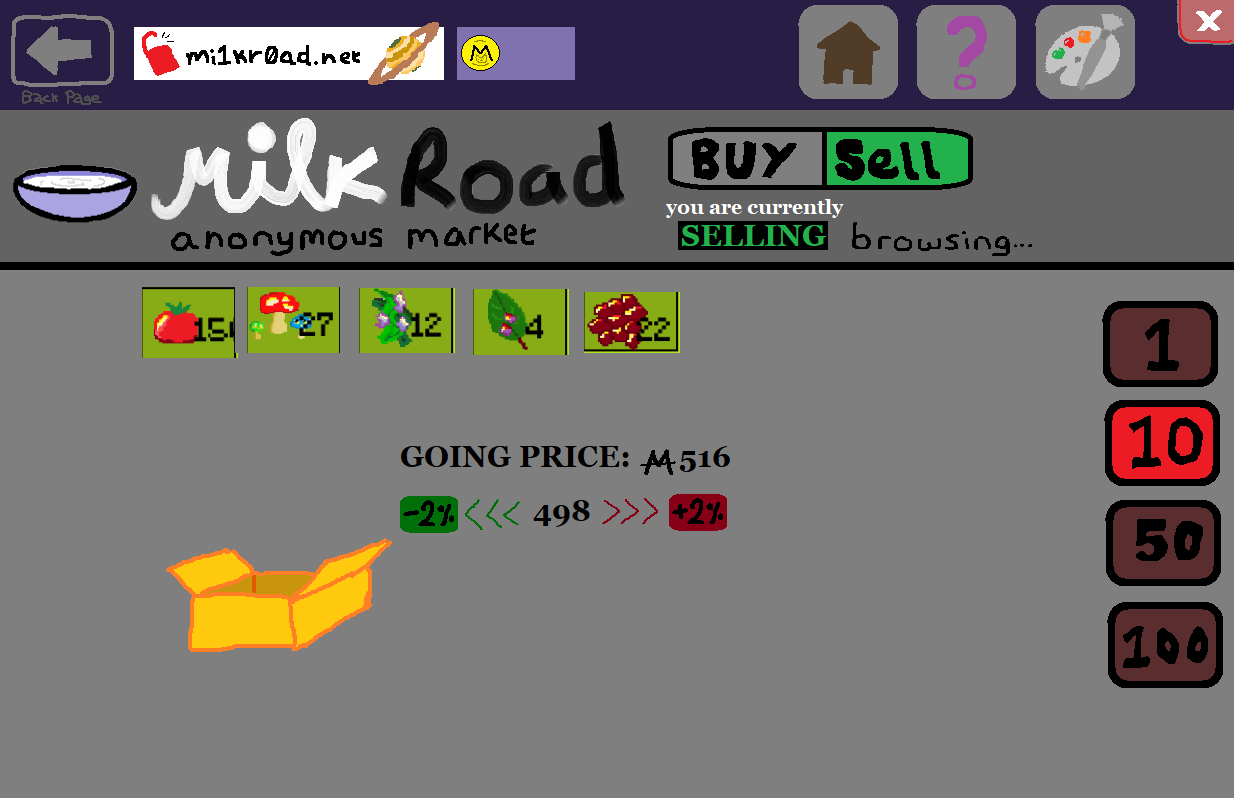
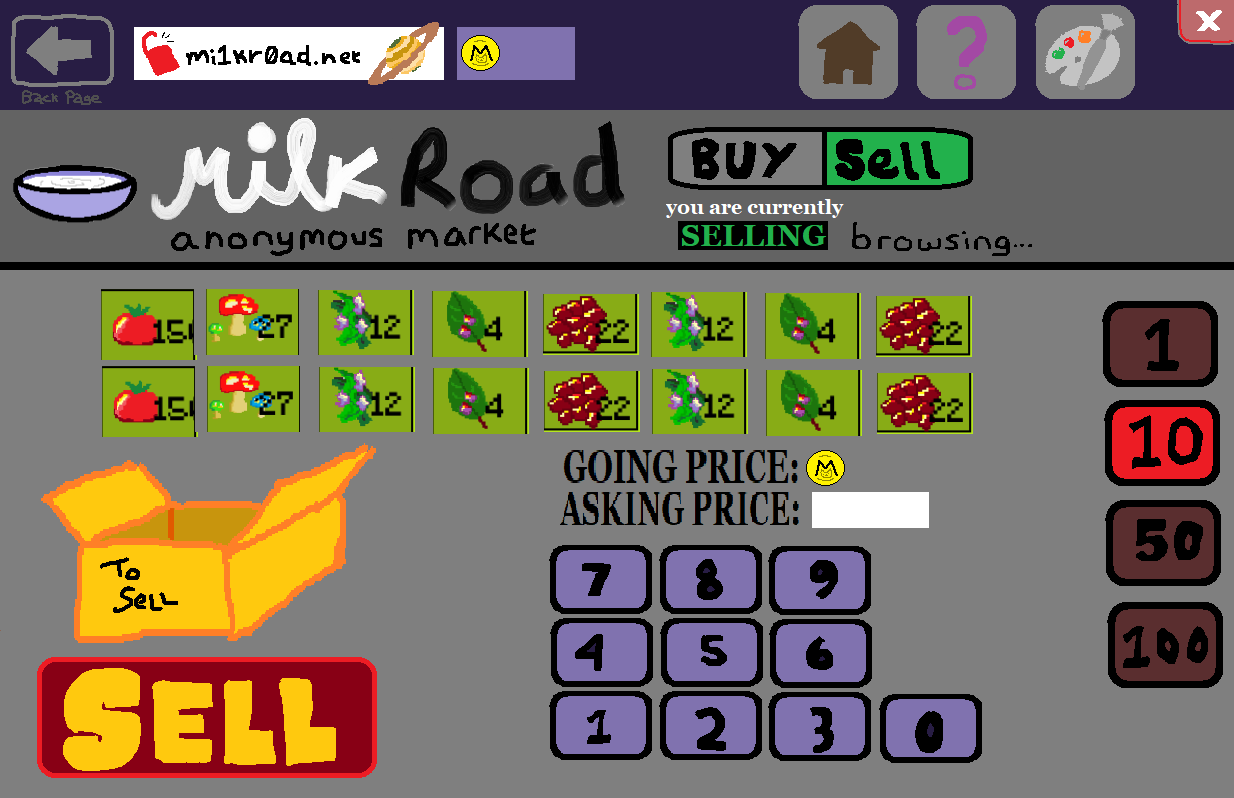
added sell logic to milkroad

Changed region(s): [[0.0308, 0.3609, 0.8006, 0.9925]]

diff --git a/site/catnip/content/screens.js b/site/catnip/content/screens.js
@@ -1,5 +1,8 @@
 
 
+function screensSetup() {
+    milkroadSetup();
+}
 
 function handleScreensLogic(click) {
     screenMilkroadLogic(click);
@@ -20,66 +23,108 @@ function isMilkroadPage(screenName) {
 }
 
 
-let milkroadBuyItems = [
+const milkroadBuyItems = [
     "citridora",
     "mushroom",
     "coffee",
 ]
 
-let milkroadBuyItemPrices = {
+const milkroadBuyItemPrices = {
     "citridora": 200,
     "mushroom": 70,
     "coffee": 25
 }
 
-let milkroadBuyItemPackSizes = {
+const milkroadBuyItemPackSizes = {
     "citridora": 30,
     "mushroom": 70,
     "coffee": 21,
 }
 
+const milkroadSellItemPrices = {
+    tomato: 1,
+    mushroom: 10,
+    citridora: 15,
+    catmint: 5,
+    coffee: 2
+}
+
 let milkroadCart = {}
+
+let milkroadSellItems = []
+let milkroadSellBox = {}
+
+function getMilkroadPagetype(name) {
+    return name.slice(4).replace(/[0-9]/g, '');
+}
 
 
 function screenMilkroadLogic(click) {
     if (!isMilkroadPage(Screen.currentScreen.name)) {
         return;
     }
+    let pageType = getMilkroadPagetype(Screen.currentScreen.name);
 
-    milkroadBuyBoxData.forEach((box, i) => {
-        if (BoundingBox.contains(box, click)) {
-            let boughtItem = milkroadBuyItems[i];
-            let price = milkroadBuyItemPrices[boughtItem];
-            if (milkroadGetCartPrice(milkroadCart)+price > player.money) {
-                return;
+    if (pageType == "buy") {
+        milkroadBuyBoxData.forEach((box, i) => {
+            if (BoundingBox.contains(box, click)) {
+                let boughtItem = milkroadBuyItems[i];
+                let price = milkroadBuyItemPrices[boughtItem];
+                if (milkroadGetCartPrice(milkroadCart)+price > player.money) {
+                    return;
+                }
+                if (!milkroadCart[boughtItem]>0) {
+                    milkroadCart[boughtItem] = 1;
+                } else {
+                    milkroadCart[boughtItem]++;
+                }
             }
-            console.log(`buying ${boughtItem}`)
-            if (!milkroadCart[boughtItem]>0) {
-                milkroadCart[boughtItem] = 1;
-            } else {
-                milkroadCart[boughtItem]++;
-            }
-        }
-    })
+        })
 
-
-    if (BoundingBox.contains(milkroadClearButton, click)) {
-        milkroadCart = {};
-    }
-
-    if (BoundingBox.contains(milkroadBuyButton, click)) {
-        if (milkroadGetCartPrice(milkroadCart) <= player.money) {
-            player.money -= milkroadGetCartPrice(milkroadCart);
-            Object.keys(milkroadCart).forEach((item) => {
-                let id = Seed.fromName(item).id;
-                player.plants[id] += milkroadCart[item]*milkroadBuyItemPackSizes[item];
-            })
+        if (BoundingBox.contains(milkroadClearButton, click)) {
             milkroadCart = {};
         }
+
+        if (BoundingBox.contains(milkroadBuyButton, click)) {
+            if (milkroadGetCartPrice(milkroadCart) <= player.money) {
+                player.money -= milkroadGetCartPrice(milkroadCart);
+                Object.keys(milkroadCart).forEach((item) => {
+                    let id = Seed.fromName(item).id;
+                    player.plants[id] += milkroadCart[item]*milkroadBuyItemPackSizes[item];
+                })
+                milkroadCart = {};
+            }
+        }
+    }
+    else if (pageType == "sell") {
+        milkroadSellItems.forEach((sellItem) => {
+            if (BoundingBox.contains(sellItem.bbox, click)) {
+                sellItem.clicked();
+            }
+        })
+
+        if (BoundingBox.contains(milkroadSellBoxBbox, click)) {
+            if (player.heldItem.type == "plant") {
+                if (!milkroadSellBox[player.heldItem.name]>0) {
+                    milkroadSellBox[player.heldItem.name] = 1;
+                } else {
+                    milkroadSellBox[player.heldItem.name] ++;
+                }
+                player.heldItem.use();
+            }
+        }
+
+        if (BoundingBox.contains(milkroadSellButton, click)) {
+            let value = milkroadGetSellBoxPrice(milkroadSellBox);
+            milkroadSellBox = {};
+            player.money += value;
+        }
     }
 
+
+
     
-    console.log(milkroadCart)
+
 }
 
 function milkroadGetCartPrice(cart) {
@@ -91,12 +136,44 @@ function milkroadGetCartPrice(cart) {
     return sum;
 }
 
+function milkroadGetSellBoxPrice(sellBox) {
+    let sum  = 0;
+    Object.keys(sellBox).forEach((item) => {
+        let price = milkroadSellItemPrices[item];
+        sum += price*sellBox[item];
+    })
+    return sum;
+}
 
 
 
 
-let milkroadClearButton = [200, 321, 0, 409];
-let milkroadBuyButton = [200, 664, 0, 786];
+
+function milkroadSetup() {
+    Seed.seeds.forEach((seed, i) => {
+        let xi = i%8;
+        let yi = (i-xi)/8;
+        let x1 = milkroadSellItemGridCorners[0] + (milkroadSellItemGridPadding + milkroadSellItemGridWidth)*xi;
+        let y1 = milkroadSellItemGridCorners[1] + (milkroadSellItemGridPadding + milkroadSellItemGridHeight)*yi;
+        let bbox = []
+        milkroadSellItems.push(new PlantItem(seed, [x1,y1,x1+milkroadSellItemGridWidth,y1+milkroadSellItemGridHeight]));
+    });
+    console.log(milkroadSellItems);
+}
+
+
+
+
+const milkroadClearButton = [200, 321, 0, 409];
+const milkroadBuyButton = [200, 664, 0, 786];
+const milkroadSellButton = [33, 655, 380, 782];
+
+
+const milkroadSellItemGridCorners = [100, 285, 970, 435];
+const milkroadSellItemGridWidth =  95;
+const milkroadSellItemGridHeight = 70;
+const milkroadSellItemGridPadding = 15;
+const milkroadSellItemGridNumber = 8;
 
 
 const milkroadBasketCorner = {"x": 0, "y": 400};
@@ -104,12 +181,21 @@ const milkroadBasketPadding = 10;
 const milkroadBasketSpacing = 5;
 const milkroadBasketCellHeight = 30;
 
+
+const milkroadSellBoxBbox = [42, 454, 390, 645];
+
+const milkroadSellAskingPricePos = {x:820,y:522};
+const milkroadSellGoingPricePos = {x:850,y:480};
+
+
+
 function screenMilkroadDraw() {
 
     if (!isMilkroadPage(Screen.currentScreen.name)) {
         return;
     }
-    let pageType = Screen.currentScreen.name.slice(4)
+    let pageType = getMilkroadPagetype(Screen.currentScreen.name);
+
 
     let moneyUICorner = {x:505, y:58};
     let moneyUIPadding = 5
@@ -133,6 +219,47 @@ function screenMilkroadDraw() {
 
         ctx.fillText(`${milkroadGetCartPrice(milkroadCart)}`, 80, 720)
     } 
+
+    else if (pageType == "sell") {
+
+        //      Draw item grid boxes
+
+        ctx.fillStyle = "rgba(136,172,22,1)"
+        for (let i = 0; i < milkroadSellItemGridNumber; i++) {
+            let x = milkroadSellItemGridCorners[0] + (milkroadSellItemGridPadding + milkroadSellItemGridWidth)*i;
+            let y = milkroadSellItemGridCorners[1];
+            ctx.fillRect(x, y, milkroadSellItemGridWidth, milkroadSellItemGridHeight);
+            ctx.strokeRect(x, y, milkroadSellItemGridWidth, milkroadSellItemGridHeight);
+            y = milkroadSellItemGridCorners[1] + milkroadSellItemGridHeight + milkroadSellItemGridPadding;
+            ctx.fillRect(x, y, milkroadSellItemGridWidth, milkroadSellItemGridHeight);
+            ctx.strokeRect(x, y, milkroadSellItemGridWidth, milkroadSellItemGridHeight);
+        }
+        ctx.fillStyle = "black";
+
+        //      Draw item grid items
+
+        Seed.seeds.forEach((seed, i) => {
+            let sprite = seed.getSprite("item");
+            let x = i%8;
+            let y = (i-x)/8;
+            let imgx = milkroadSellItemGridCorners[0] + (milkroadSellItemGridPadding + milkroadSellItemGridWidth)*x;
+            let imgy = milkroadSellItemGridCorners[1] + (milkroadSellItemGridPadding + milkroadSellItemGridHeight)*y;
+            ctx.drawImage(sprite, imgx+17, imgy+5);
+            if ((player.heldItem.name == seed.name)) {
+                let mouseCoord = toScreenCoord(normMouseCoord);
+                ctx.drawImage(sprite, mouseCoord.x - 25, mouseCoord.y - 25)
+            }
+            textX = imgx + milkroadSellItemGridWidth*0.7;
+            textY = imgy + milkroadSellItemGridWidth*0.7;
+            ctx.font = "30px pixel";
+            ctx.fillStyle = "#000000"
+            ctx.fillText(`${player.plants[i]}`, textX, textY);
+        })
+
+        //      Draw going price
+
+        ctx.fillText(`${milkroadGetSellBoxPrice(milkroadSellBox)}`, milkroadSellGoingPricePos.x, milkroadSellGoingPricePos.y)
+    }
 
 
 }

diff --git a/site/catnip/util/app.js b/site/catnip/util/app.js
@@ -10,6 +10,7 @@ App.init = function() {
     App.canvas = document.getElementById("game-canvas");
     App.width = window.innerWidth;
     App.height = window.innerHeight;
+    App.isFullScreen = false;
 
 
     App.noLoop = false;
@@ -46,3 +47,26 @@ App.verbose = function(array) {
 }
 
 App.init();
+
+
+
+let gameContainer = document.getElementById("main-body");
+gameContainer.ondblclick = () => {
+    return; //                      ---     DISABLE FULLSCREEN     ---
+    if (!App.isFullScreen) {
+        App.isFullScreen = true;
+        gameContainer.requestFullscreen().catch((err) => {
+            App.isFullScreen = false;
+            console.error(`Error enabling fullscreen: ${err.message}`);
+        })
+
+    } else {
+        App.fullscreen = false;  
+        document.exitFullscreen().catch((err) => {
+            App.isFullScreen = true;
+            console.error(`Error enabling fullscreen: ${err.message}`);
+        });
+ 
+    }
+
+}

diff --git a/site/catnip/util/draw.js b/site/catnip/util/draw.js
@@ -109,7 +109,7 @@ function drawUI() {
         textY = y + counterImageHeight*0.8;
         ctx.font = "30px pixel";
         ctx.fillStyle = "#000000"
-        ctx.fillText(`${player.plants[i]}`, textX, textY)
+        ctx.fillText(`${player.plants[i]}`, textX, textY);
     })
 
     //      Draw Held item

diff --git a/site/catnip/util/data.js b/site/catnip/util/data.js
@@ -513,6 +513,7 @@ garden, home, laptop_1,
 nightgarden, home, laptop_1,
 garden, home, laptop_2,
 nightgarden, home, laptop_2,
+home, garden, back_
 `
 
 

diff --git a/site/catnip/game.js b/site/catnip/game.js
@@ -154,6 +154,10 @@ function gamesetup() {
     
 
 
+    //      Setup screens
+    screensSetup();
+
+
     
 
     //saveGame(player, potArray);
